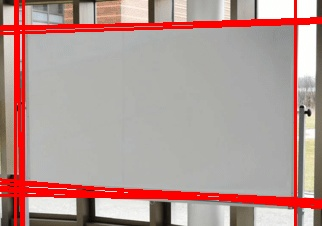
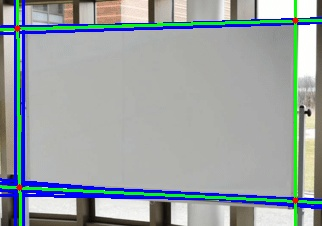
Corners are detected

Changed region(s): [[0.0, 0.0, 1.0, 1.0]]

diff --git a/corner_detection.py b/corner_detection.py
@@ -44,9 +44,8 @@ for i in range(len(lines)):
     # cv2.line draws a line in img from the point(x1,y1) to (x2,y2).
     # (0,0,255) denotes the colour of the line to be
     # drawn. In this case, it is red.
-    cv.line(im, (x1, y1), (x2, y2), (0, 0, 255), 2)
+    cv.line(im, (x1, y1), (x2, y2), (255, 0, 0), 2)
     lines[i] = (r, theta*180/np.pi)
-print(lines)
 
 # normalize
 dataset = whiten(lines)
@@ -54,15 +53,62 @@ dataset = whiten(lines)
 # generate code book
 centroids, mean_dist = kmeans(lines, 4)
 print("Code-book :\n", centroids, "\n")
+
+coefficients = [] # [A,B,C]
+
+for centroid in centroids:
+    # All the changes made in the input image are finally
+    # written on a new image houghlines.jpg
+    r, theta = centroid
+    theta = theta*(np.pi/180)
+    # Stores the value of cos(theta) in a
+    a = np.cos(theta)
  
-# All the changes made in the input image are finally
-# written on a new image houghlines.jpg
+    # Stores the value of sin(theta) in b
+    b = np.sin(theta)
+ 
+    # x0 stores the value rcos(theta)
+    x0 = a*r
+ 
+    # y0 stores the value rsin(theta)
+    y0 = b*r
+ 
+    # x1 stores the rounded off value of (rcos(theta)-1000sin(theta))
+    x1 = int(x0 + 1000*(-b))
+ 
+    # y1 stores the rounded off value of (rsin(theta)+1000cos(theta))
+    y1 = int(y0 + 1000*(a))
+ 
+    # x2 stores the rounded off value of (rcos(theta)+1000sin(theta))
+    x2 = int(x0 - 1000*(-b))
+ 
+    # y2 stores the rounded off value of (rsin(theta)-1000cos(theta))
+    y2 = int(y0 - 1000*(a))
+ 
+    # cv2.line draws a line in img from the point(x1,y1) to (x2,y2).
+    # (0,0,255) denotes the colour of the line to be
+    # drawn. In this case, it is red.
+    cv.line(im, (x1, y1), (x2, y2), (0, 255, 0), 2)
+
+    A = (y2 - y1)
+    B = (x1 - x2)
+    C = y1 * (x2 - x1) - (y2 - y1) * x1
+    coefficients.append((A,B,C))
+for i in range(len(coefficients)):
+    line1 = coefficients[i-1]
+    line2 = coefficients[i]
+    intersectionMatrix = np.cross(np.array(line1), np.array(line2))
+    divisor = intersectionMatrix[2]
+    intersectionPos = intersectionMatrix/divisor
+    print(intersectionPos[:2])
+    cv.circle(im, (int(intersectionPos[0]), int(intersectionPos[1])), 3, (0,0,255), -1)
+
 cv.imwrite('linesDetected.jpg', im)
 
 plt.scatter(lines[:,0], lines[:,1])
 plt.scatter(centroids[:,0], centroids[:,1])
 
-plt.show()
+#plt.show()
 """ if lines is not None:
     for line in lines:
         x1, y1, x2, y2 = line[0]
